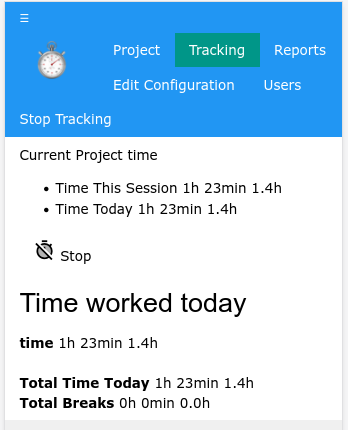
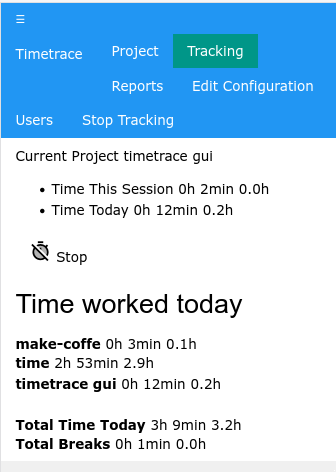
added roadmap, updated screenshots

diff --git a/README.md b/README.md
@@ -18,6 +18,8 @@ You can use timetrace-gui and timetrace at the same time. Updates entered in one
 ### Docker
 `docker run --name netmaker-gui -p 8090:8090 -v $HOME/.timetrace:/root/.timetrace nusak/timetrace-gui:v0.0.1`
 
+On first run a user creation dialog will be presented.  Use the user/password you entered for future logins.
+
 ##Screenshots
 ### Web
 ![browser](https://github.com/mattkasun/timetrace-gui/raw/master/screenshots/web.png "TimeTrace-GUI with Browser")
@@ -25,4 +27,10 @@ You can use timetrace-gui and timetrace at the same time. Updates entered in one
 ### Mobile
 ![phone](https://github.com/mattkasun/timetrace-gui/raw/master/screenshots/mobile.png "TimeTrace-GUI with Phone")
 
-
+##RoadMap
+-[] Restore deleted projects
+-[] Edit project
+-[] Edit record
+-[] Reports
+-[] Edit Configuration
+-[] Users
